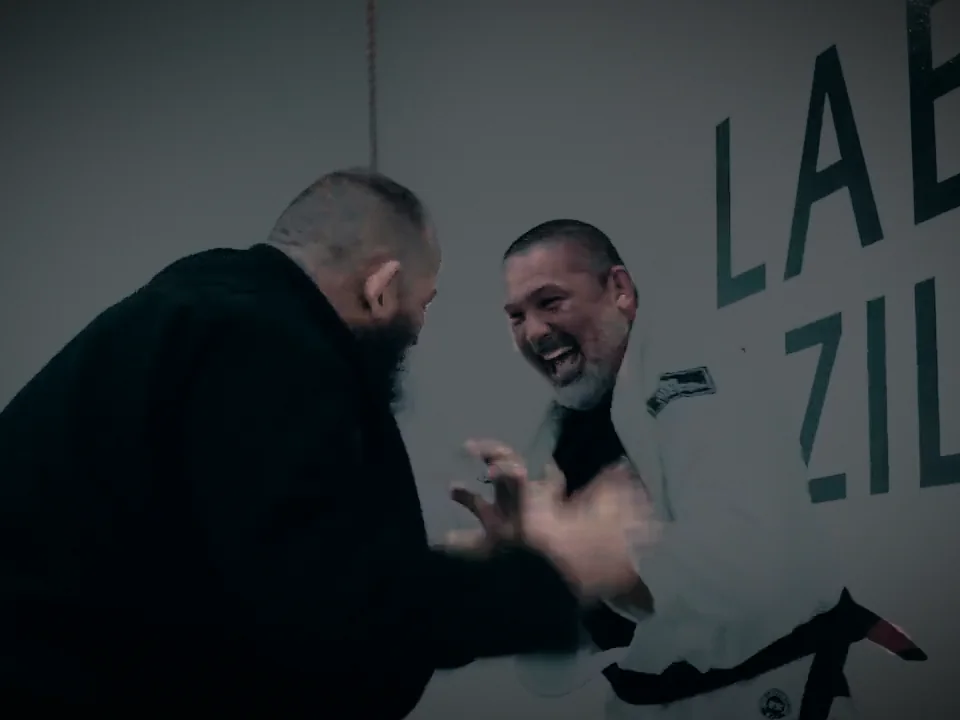
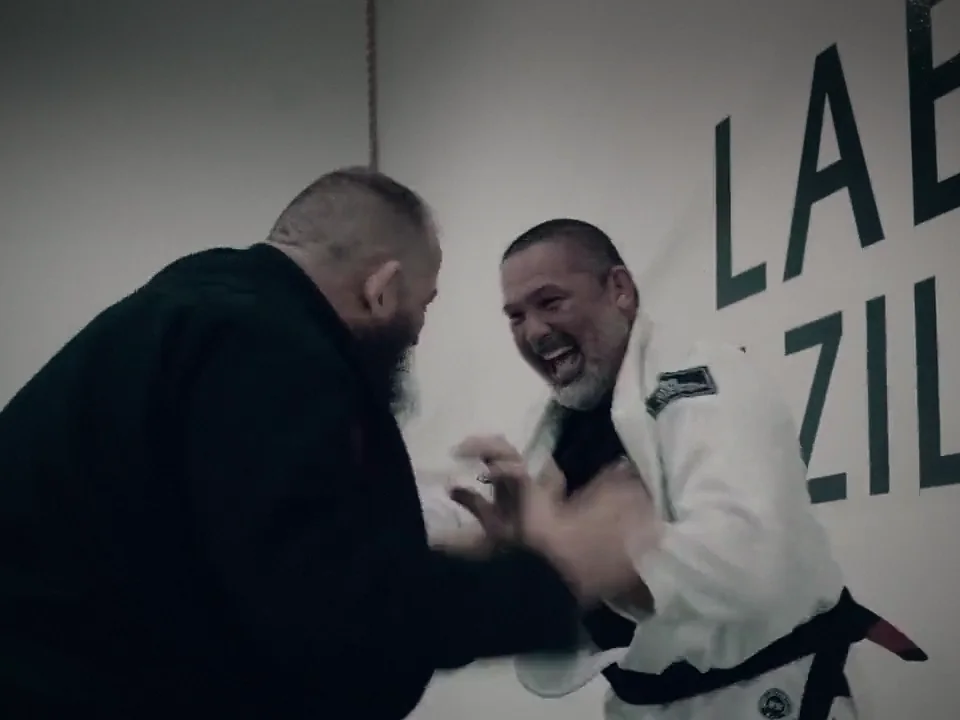
Homepage photos: a natural edit, and the Austin photo on the Competition Team card
The first grade of the four program photos told white walls from skin from clothes by colour and
treated them differently. A mask has an edge: it left pale halos round the kids, turned the logos on
the rash guards into flat grey blocks and made skin look like plastic. It is replaced by an edit
with no mask in it: exposure down about a stop in linear light, a gentle S-curve, a little colour
(teal in the shadows, warmth in the highlights), a soft vignette and a trace of grain. Every pixel
goes through the same curves, so nothing is cut out and a logo is as it was.

- Youth BJJ, Youth Wrestling and Adult Gi: the same pictures as before, regraded.
- Competition Team: the owner's photo from Jiu Jitsu World League Austin (two team members with gold
  medals in front of the banner), the whole frame, enlarged 2x and sharpened a little because it
  came at 800 pixels wide. The page positions it with object-position so both men and the medals
  stay in the card's tall window at every width, from a small phone to a tablet. New alt text.

Claude-Session: https://claude.ai/code/session_01T1jcBhMbJVQd3Vp58LzqMh

diff --git a/index.html b/index.html
@@ -900,7 +900,7 @@ button {
 
       <!-- Bottom Row: Competition Team -->
       <div class="program-card program-card--third" data-program="competition" role="button" tabindex="0">
-        <picture><source srcset="./assets/home-competition.webp" type="image/webp"><img src="./assets/home-competition.jpg" alt="Two training partners in black and gold Labyrinth rash guards grapple at Labyrinth BJJ in Fulshear, TX" class="program-card__image" loading="lazy" width="800" height="600"></picture>
+        <picture><source srcset="./assets/home-competition.webp" type="image/webp"><img src="./assets/home-competition.jpg" alt="Two Labyrinth BJJ team members hold gold medals in front of the Jiu Jitsu World League Austin banner" class="program-card__image" style="object-position:51% 50%" loading="lazy" width="800" height="600"></picture>
         <div class="program-card__body">
           <p class="program-card__tag">Elite Training</p>
           <h3 class="program-card__title">Competition Team</h3>
